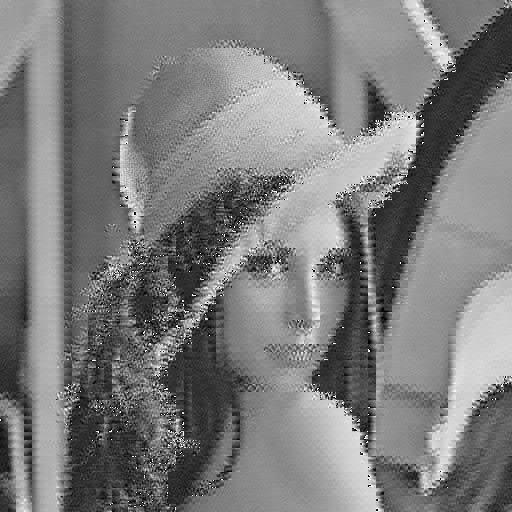
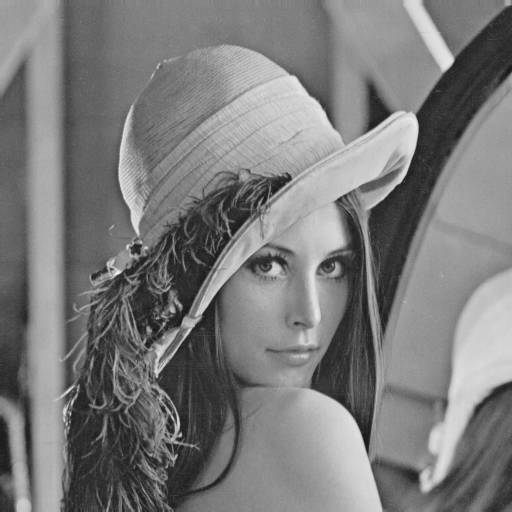
HW4: debug run_length_decode

diff --git a/Homework/HW4/src/entropy_coding.py b/Homework/HW4/src/entropy_coding.py
@@ -9,34 +9,19 @@ import time
 # Implement custom DCT for an 8x8 block
 def dct_2d(block):
     """Apply 2D DCT to an 8x8 block."""
-    dct_block = np.zeros((8, 8), dtype=np.float32)
-    for u in range(8):
-        for v in range(8):
-            alpha_u = 1 / np.sqrt(2) if u == 0 else 1
-            alpha_v = 1 / np.sqrt(2) if v == 0 else 1
-            sum_value = 0
-            for x in range(8):
-                for y in range(8):
-                    sum_value += block[x, y] * np.cos((2 * x + 1) * u * np.pi / 16) * np.cos((2 * y + 1) * v * np.pi / 16)
-            dct_block[u, v] = (2 / 8) * alpha_u * alpha_v * sum_value
-            
-    return dct_block
+    M, N = block.shape
+    c = np.array([1 / np.sqrt(2) if i == 0 else 1 for i in range(max(M, N))])
+    x = np.arange(M).reshape(-1, 1)
+    y = np.arange(N).reshape(1, -1)
 
+    dct = np.zeros((M, N))
+    for u in range(M):
+        for v in range(N):
+            cos_x = np.cos((2 * x + 1) * u * np.pi / (2 * M))
+            cos_y = np.cos((2 * y + 1) * v * np.pi / (2 * N))
+            dct[u, v] = (2 / N) * c[u] * c[v] * np.sum(block * cos_x * cos_y)
 
-# def dct_2d(block):
-#     M, N = block.shape
-#     c = np.array([1 / np.sqrt(2) if i == 0 else 1 for i in range(max(M, N))])
-#     x = np.arange(M).reshape(-1, 1)
-#     y = np.arange(N).reshape(1, -1)
-
-#     dct = np.zeros((M, N))
-#     for u in range(M):
-#         for v in range(N):
-#             cos_x = np.cos((2 * x + 1) * u * np.pi / (2 * M))
-#             cos_y = np.cos((2 * y + 1) * v * np.pi / (2 * N))
-#             dct[u, v] = (2 / N) * c[u] * c[v] * np.sum(block * cos_x * cos_y)
-
-#     return dct
+    return dct
 
 
 # Quantize using quantization tables
@@ -63,7 +48,7 @@ def run_length_encode(block):
     zigzag_array = zigzag_scan(block)
     rle = []
     zero_count = 0
-    
+
     for i in range(len(zigzag_array)):
         if zigzag_array[i] == 0:
             zero_count += 1
@@ -81,12 +66,22 @@ def run_length_encode(block):
 
 # Run Length Decoding
 def run_length_decode(rle):
-    """Run-Length Decode a list into a 1D block."""
-    block = []
+    """Run-Length Decode a list into an 8x8 block using zigzag scan."""
+    flat_block = np.zeros(64, dtype=np.int32)
+    position = 0
+
     for value, count in rle:
-        block.extend([value] * count)
-        
-    return np.array(block[:64])
+        for _ in range(count):
+            flat_block[position] = value
+            position += 1
+
+    # Use zigzag order to reconstruct the 8x8 block
+    block = np.zeros((8, 8), dtype=np.int32)
+    for i in range(64):
+        index = np.unravel_index(zigzag_indices[i], (8, 8))
+        block[index] = flat_block[i]
+
+    return block
 
 
 # Inverse Quantize
@@ -99,36 +94,19 @@ def inverse_quantize(block, q_table):
 # Implement custom IDCT for an 8x8 block
 def idct_2d(block):
     """Apply 2D IDCT to an 8x8 block."""
-    idct_block = np.zeros((8, 8), dtype=np.float32)
-    for x in range(8):
-        for y in range(8):
-            sum_value = 0
-            for u in range(8):
-                for v in range(8):
-                    alpha_u = 1 / np.sqrt(2) if u == 0 else 1
-                    alpha_v = 1 / np.sqrt(2) if v == 0 else 1
-                    sum_value += alpha_u * alpha_v * \
-                        block[u, v] * np.cos((2 * x + 1) * u * np.pi / 16) * \
-                        np.cos((2 * y + 1) * v * np.pi / 16)
-            idct_block[x, y] = (2 / 8) * sum_value
-            
-    return np.round(idct_block).astype(np.uint8)
+    M, N = block.shape
+    c = np.array([1 / np.sqrt(2) if i == 0 else 1 for i in range(max(M, N))])
+    u = np.arange(M).reshape(-1, 1)
+    v = np.arange(N).reshape(1, -1)
 
+    idct = np.zeros((M, N))
+    for x in range(M):
+        for y in range(N):
+            cos_u = np.cos((2 * x + 1) * u * np.pi / (2 * M))
+            cos_v = np.cos((2 * y + 1) * v * np.pi / (2 * N))
+            idct[x, y] = (2 / N) * np.sum(c[u] * c[v] * block * cos_u * cos_v)
 
-# def idct_2d(block):
-#     M, N = block.shape
-#     c = np.array([1 / np.sqrt(2) if i == 0 else 1 for i in range(max(M, N))])
-#     u = np.arange(M).reshape(-1, 1)
-#     v = np.arange(N).reshape(1, -1)
-
-#     idct = np.zeros((M, N))
-#     for x in range(M):
-#         for y in range(N):
-#             cos_u = np.cos((2 * x + 1) * u * np.pi / (2 * M))
-#             cos_v = np.cos((2 * y + 1) * v * np.pi / (2 * N))
-#             idct[x, y] = (2 / N) * np.sum(c[u] * c[v] * block * cos_u * cos_v)
-
-#     return np.clip(idct, 0, 255)
+    return np.clip(idct, 0, 255)
 
 
 # Peak Signal-to-Noise Ratio (PSNR)
@@ -163,8 +141,7 @@ def process_image(q_table, image):
     # Apply DCT, Quantize, and Encode using the selected quantization table
     print(">> Apply DCT, Quantize, and Encode using the selected quantization table...")
     for block in blocks:
-        # dct_block = dct_2d(block)
-        dct_block = cv2.dct(np.float32(block))
+        dct_block = dct_2d(block)
         quantized_block = quantize(dct_block, q_table)
         encoded_blocks.append(run_length_encode(quantized_block))
 
@@ -176,8 +153,7 @@ def process_image(q_table, image):
             # Decode and apply IDCT
             decoded_rle = run_length_decode(encoded_blocks[block_idx])
             dequantized_block = inverse_quantize(decoded_rle.reshape((8, 8)), q_table)
-            # reconstructed_block = idct_2d(dequantized_block)
-            reconstructed_block = cv2.idct(np.float32(dequantized_block))
+            reconstructed_block = idct_2d(dequantized_block)
             reconstructed_image[i:i+8, j:j+8] = reconstructed_block
 
             block_idx += 1
